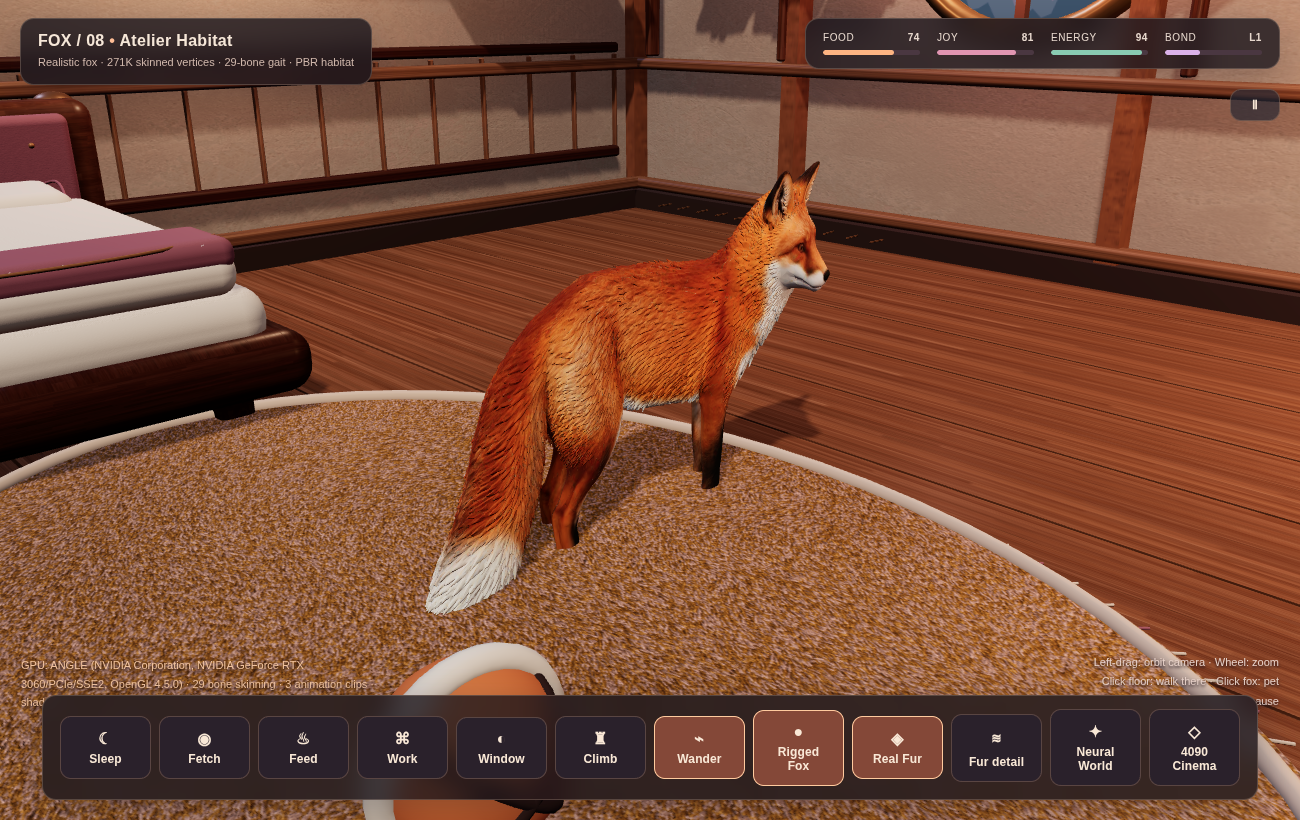
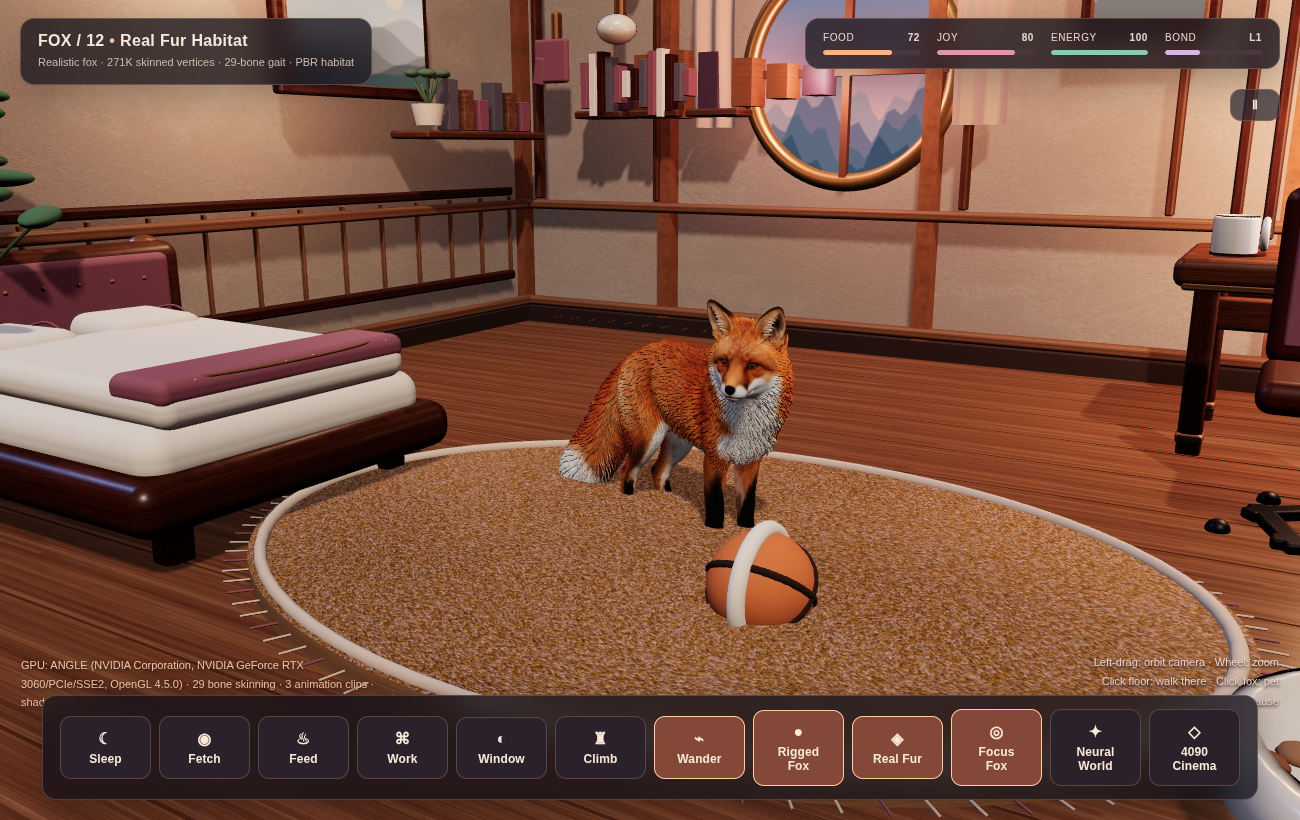
Focus camera on realistic fox and allow tracked room exploration

diff --git a/real3d/scene.js b/real3d/scene.js
@@ -558,11 +558,16 @@ function loadVariant(name){
   setRigClip("idle");
   $("variant").innerHTML="<span>◈</span>"+(name==="realistic"?"Real Fur":name==="enhanced"?"Enhanced":"Classic");
   $("variant").classList.toggle("active",name!=="classic");
-  $("fur").disabled=name!=="classic";
-  $("fur").classList.remove("active");
+  $("fur").disabled=name==="enhanced";
+  $("fur").innerHTML=name==="realistic"?"<span>◎</span>Focus Fox":"<span>≋</span>Fur detail";
+  $("fur").classList.toggle("active",name==="realistic"&&focusMode);
   say(desired.label+" loaded, with "+rigged.names.join(" / ")+" animations.");
   $("status").textContent="GPU: "+gpuName+" · "+rigged.boneCount+" bone skinning · "+rigged.names.length+" animation clips · shadows";
   window.__fox3dRig={variant:name,animations:rigged.names,skinned:true,bones:rigged.boneCount,dimensions:bound.getSize(new THREE.Vector3()).toArray()};
+  if(name==="realistic"&&!rigged.focusInit){
+   rigged.focusInit=true;
+   setFocusMode(true);
+  }
  },undefined,error=>{
   console.error("3D model load error",name,error);
   rigged.loading=false;
@@ -574,6 +579,10 @@ function loadVariant(name){
 loadVariant("realistic");
 $("rig").addEventListener("click",()=>setRiggedEnabled(!rigged.enabled));
 $("fur").addEventListener("click",()=>{
+ if(rigged.variant==="realistic"){
+  setFocusMode(!focusMode);
+  return;
+ }
  rigged.furEnabled=!rigged.furEnabled;
  if(rigged.fur)rigged.fur.visible=rigged.enabled&&rigged.furEnabled;
  $("fur").classList.toggle("active",rigged.furEnabled);
@@ -727,6 +736,19 @@ foxClick.position.set(.14,1,0);foxClick.userData.fox=true;foxRoot.add(foxClick);
 const picking=[foxClick,...clickables,floorPick];
 
 const orbit={azimuth:.36,elevation:.32,radius:11.6,desiredRadius:11.6,focus:new THREE.Vector3(0,1.55,-.35)};
+let focusMode=false;
+function setFocusMode(enabled){
+ focusMode=Boolean(enabled);
+ if(focusMode){
+  orbit.azimuth=.54;orbit.elevation=.24;orbit.radius=4.9;
+  orbit.focus.set(fox.pos.x,.63,fox.pos.z);
+ }else{
+  orbit.azimuth=.36;orbit.elevation=.32;orbit.radius=11.6;
+  orbit.focus.set(0,1.55,-.35);
+ }
+ if(rigged.variant==="realistic")$("fur").classList.toggle("active",focusMode);
+ updateCamera();
+}
 let drag=null;
 function updateCamera(){
  const x=orbit.radius*Math.sin(orbit.azimuth)*Math.cos(orbit.elevation);
@@ -781,7 +803,7 @@ renderer.domElement.style.cursor="grab";
 renderer.domElement.addEventListener("contextmenu",e=>e.preventDefault());
 renderer.domElement.addEventListener("wheel",e=>{
  e.preventDefault();
- orbit.radius=clamp(orbit.radius+Math.sign(e.deltaY)*.54,8.2,17.5);
+ orbit.radius=clamp(orbit.radius+Math.sign(e.deltaY)*.54,3.8,17.5);
  updateCamera();
 },{passive:false});
 document.querySelectorAll("[data-task]").forEach(b=>b.addEventListener("click",()=>task(b.dataset.task)));
@@ -801,7 +823,7 @@ document.addEventListener("keydown",e=>{
  }else if(/Digit[1-6]/.test(e.code)){
   task(["bed","ball","food","desk","window","tower"][Number(e.code.slice(5))-1]);
  }else if(e.code==="KeyF"){
-  orbit.azimuth=.36;orbit.elevation=.32;orbit.radius=11.6;updateCamera();
+  setFocusMode(!focusMode);
  }else if(e.code==="KeyD"){
   $("debug").style.display=$("debug").style.display==="block"?"none":"block";
  }
@@ -855,6 +877,10 @@ function frame(){
    }
   }
   if(t-lastPersist>25){save();lastPersist=t}
+ }
+ if(focusMode){
+  orbit.focus.set(fox.pos.x,.63,fox.pos.z);
+  updateCamera();
  }
  if(performance.now()>noteUntil)notes.style.opacity="0";
  renderer.render(scene,camera);

diff --git a/real3d/index.html b/real3d/index.html
@@ -35,7 +35,7 @@ button span {font-size:16px;display:block;margin-bottom:4px}
 </head>
 <body>
 <div id="hud">
- <div id="top"><div id="brand" class="panel"><h1>FOX / 08 <span style="color:#fac193">•</span> Atelier Habitat</h1><p>Realistic fox · 271K skinned vertices · 29-bone gait · PBR habitat</p></div><div id="stats" class="panel"><div class="metric"><span>FOOD <b id="foodtxt">78</b></span><div class="track"><i id="foodbar"></i></div></div><div class="metric"><span>JOY <b id="joytxt">84</b></span><div class="track"><i id="joybar"></i></div></div><div class="metric"><span>ENERGY <b id="energytxt">87</b></span><div class="track"><i id="energybar"></i></div></div><div class="metric"><span>BOND <b id="bondtxt">L1</b></span><div class="track"><i style="background:#dab0ec;width:33%" id="bondbar"></i></div></div></div></div>
+ <div id="top"><div id="brand" class="panel"><h1>FOX / 12 <span style="color:#fac193">•</span> Real Fur Habitat</h1><p>Realistic fox · 271K skinned vertices · 29-bone gait · PBR habitat</p></div><div id="stats" class="panel"><div class="metric"><span>FOOD <b id="foodtxt">78</b></span><div class="track"><i id="foodbar"></i></div></div><div class="metric"><span>JOY <b id="joytxt">84</b></span><div class="track"><i id="joybar"></i></div></div><div class="metric"><span>ENERGY <b id="energytxt">87</b></span><div class="track"><i id="energybar"></i></div></div><div class="metric"><span>BOND <b id="bondtxt">L1</b></span><div class="track"><i style="background:#dab0ec;width:33%" id="bondbar"></i></div></div></div></div>
  <button id="pause">Ⅱ</button>
  <div id="note"></div>
  <div id="status">INITIALIZING HARDWARE RENDERER…</div>

diff --git a/real3d/README.md b/real3d/README.md
@@ -10,7 +10,7 @@
 
 The default animal uses 271,221 high-resolution mesh vertices from a CC0 realistic fox, retargeted using Blender to the existing Bake3D 29-bone armature (CC BY 4.0). Unlike sprites, its surface deforms with the skeleton. The initial source animations distorted the realistic geometry, so the app now uses directly animated bone quaternions with blended quadruped gait, subtle head motion, ears and tail.
 
-The original furniture, camera and pet interactions remain usable. Use the character button to cycle Real Fur → Enhanced → Classic. RTX 3060 real-time rendering remains supported. An 1800×1100 OptiX asset preview of this same character was produced on RTX 4090.
+The new Focus Fox camera tracks the animal through the room. Press F or the Focus Fox button to return to the room overview. The original furniture, camera and pet interactions remain usable. Use the character button to cycle Real Fur → Enhanced → Classic. RTX 3060 real-time rendering remains supported. An 1800×1100 OptiX asset preview of this same character was produced on RTX 4090.
 
 Rebuild the generated asset after downloading the CC0 light GLB from https://grab3d.com/models/animals/fox/ :
 

diff --git a/README.md b/README.md
@@ -10,7 +10,7 @@
 
 [Watch the real 3D walking video](real3d/docs/v12-real-fox-animation.mp4) · [Implementation](real3d/README.md) · [Third-party credits](real3d/assets/CREDITS.md)
 
-The real-time application still works on RTX 3060. The RTX 4090 generated the high-resolution OptiX preview of the very same retargeted model — not an unrelated animal.
+Use the Focus Fox button (F key) to track the realistic animal up close, or return to the wide room view. The real-time application still works on RTX 3060. The RTX 4090 generated the high-resolution OptiX preview of the very same retargeted model — not an unrelated animal.
 
 ## v11 — RTX 4090 Neural Cinema: 4D Gaussian Splatting + OptiX
 
